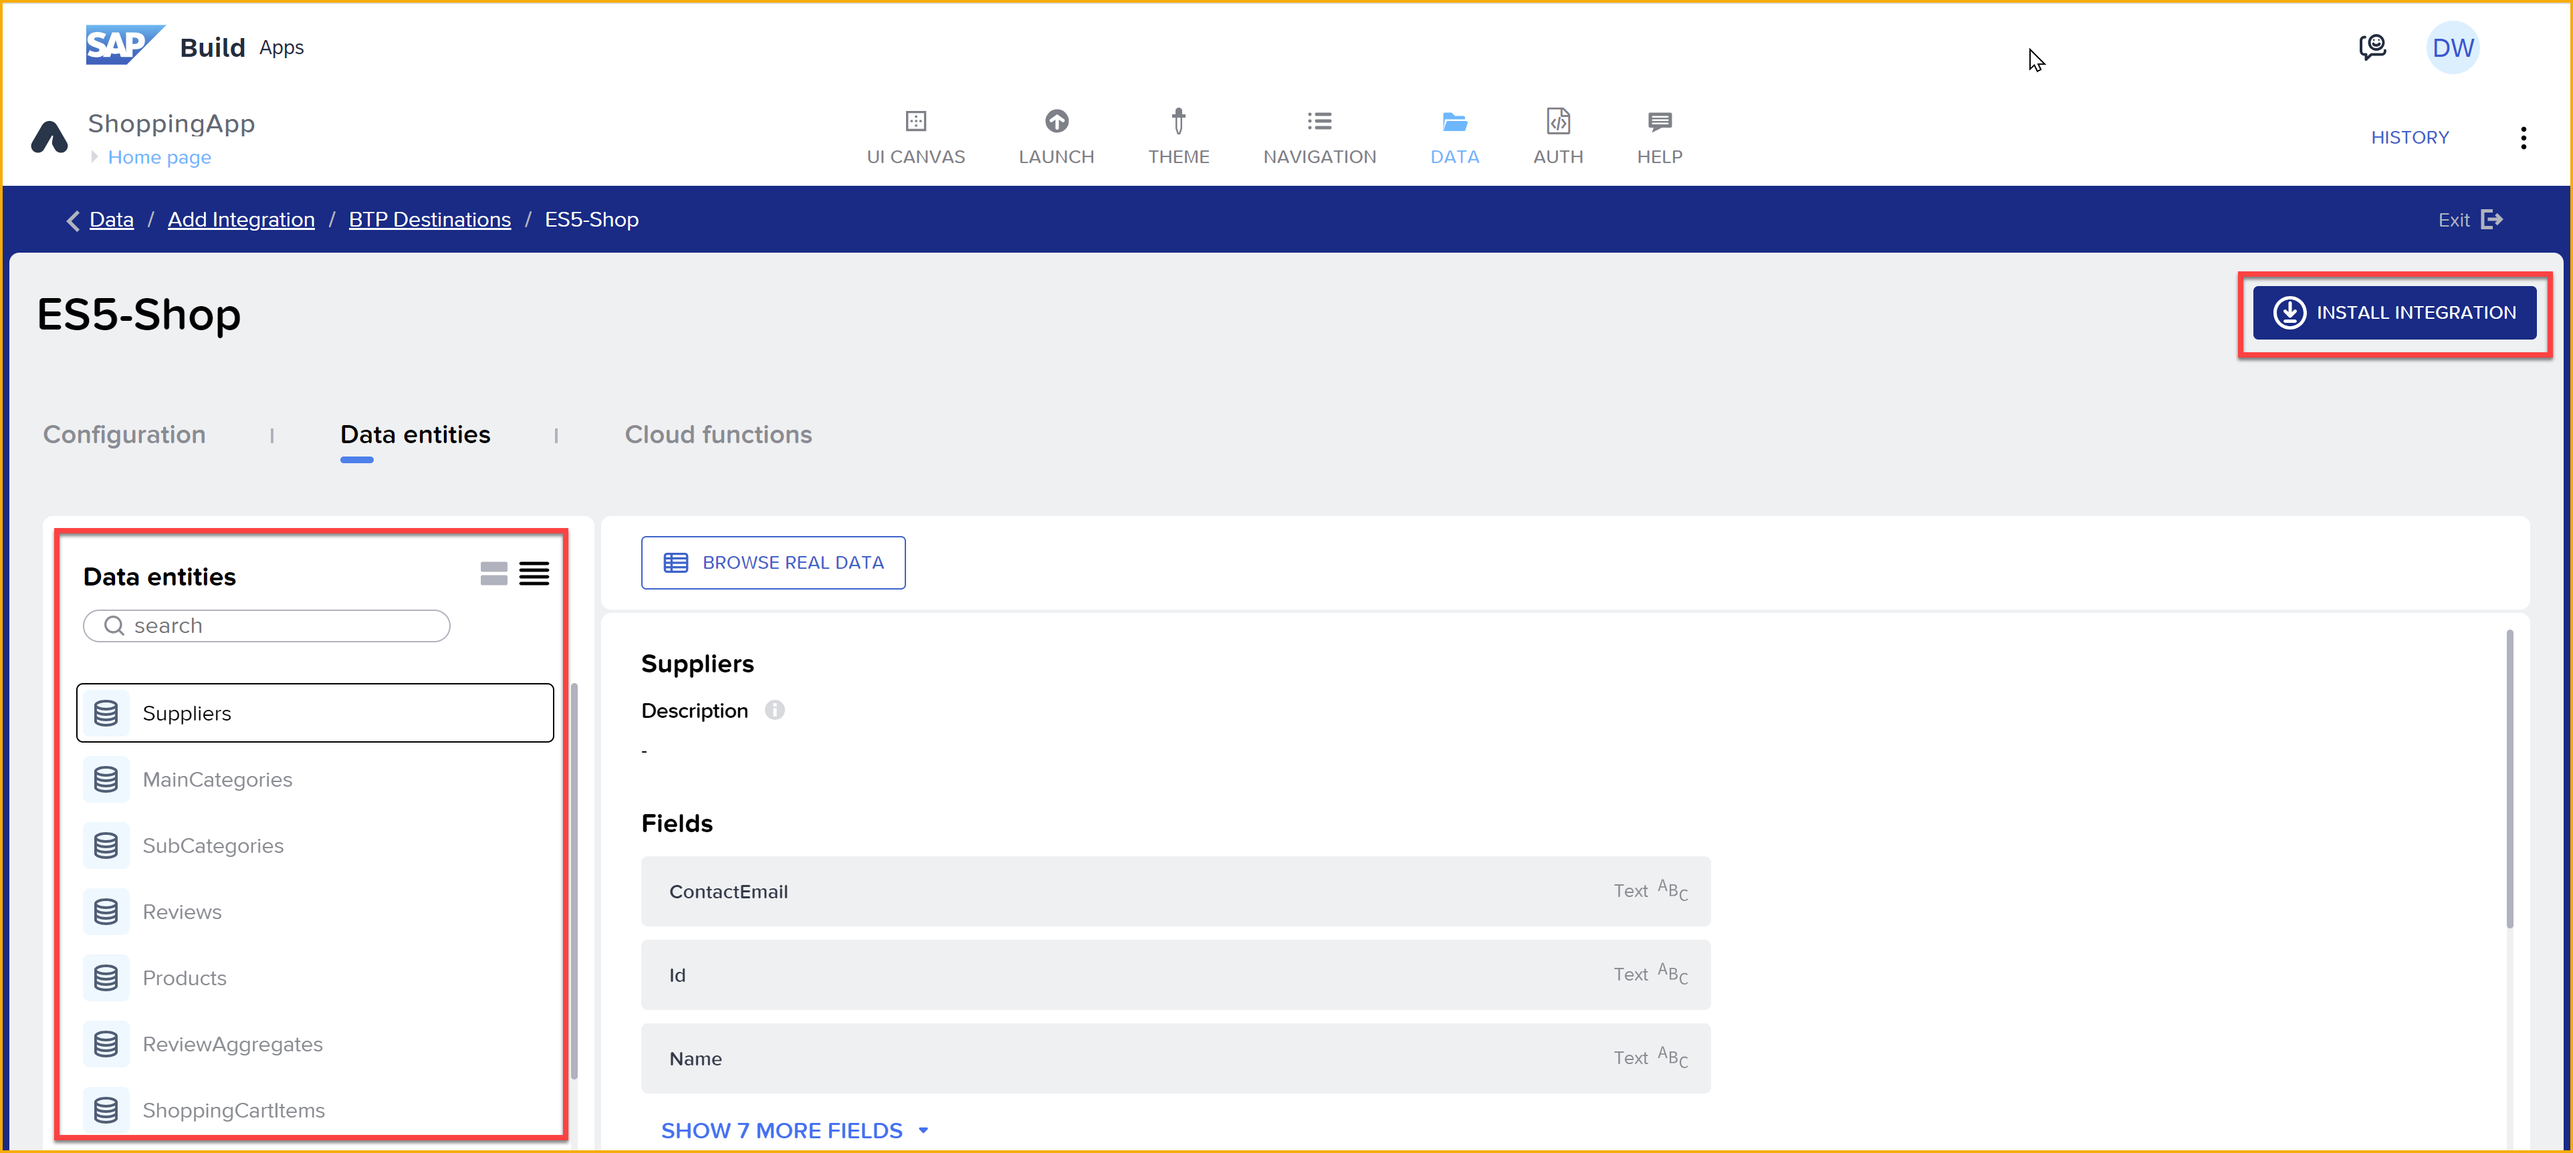
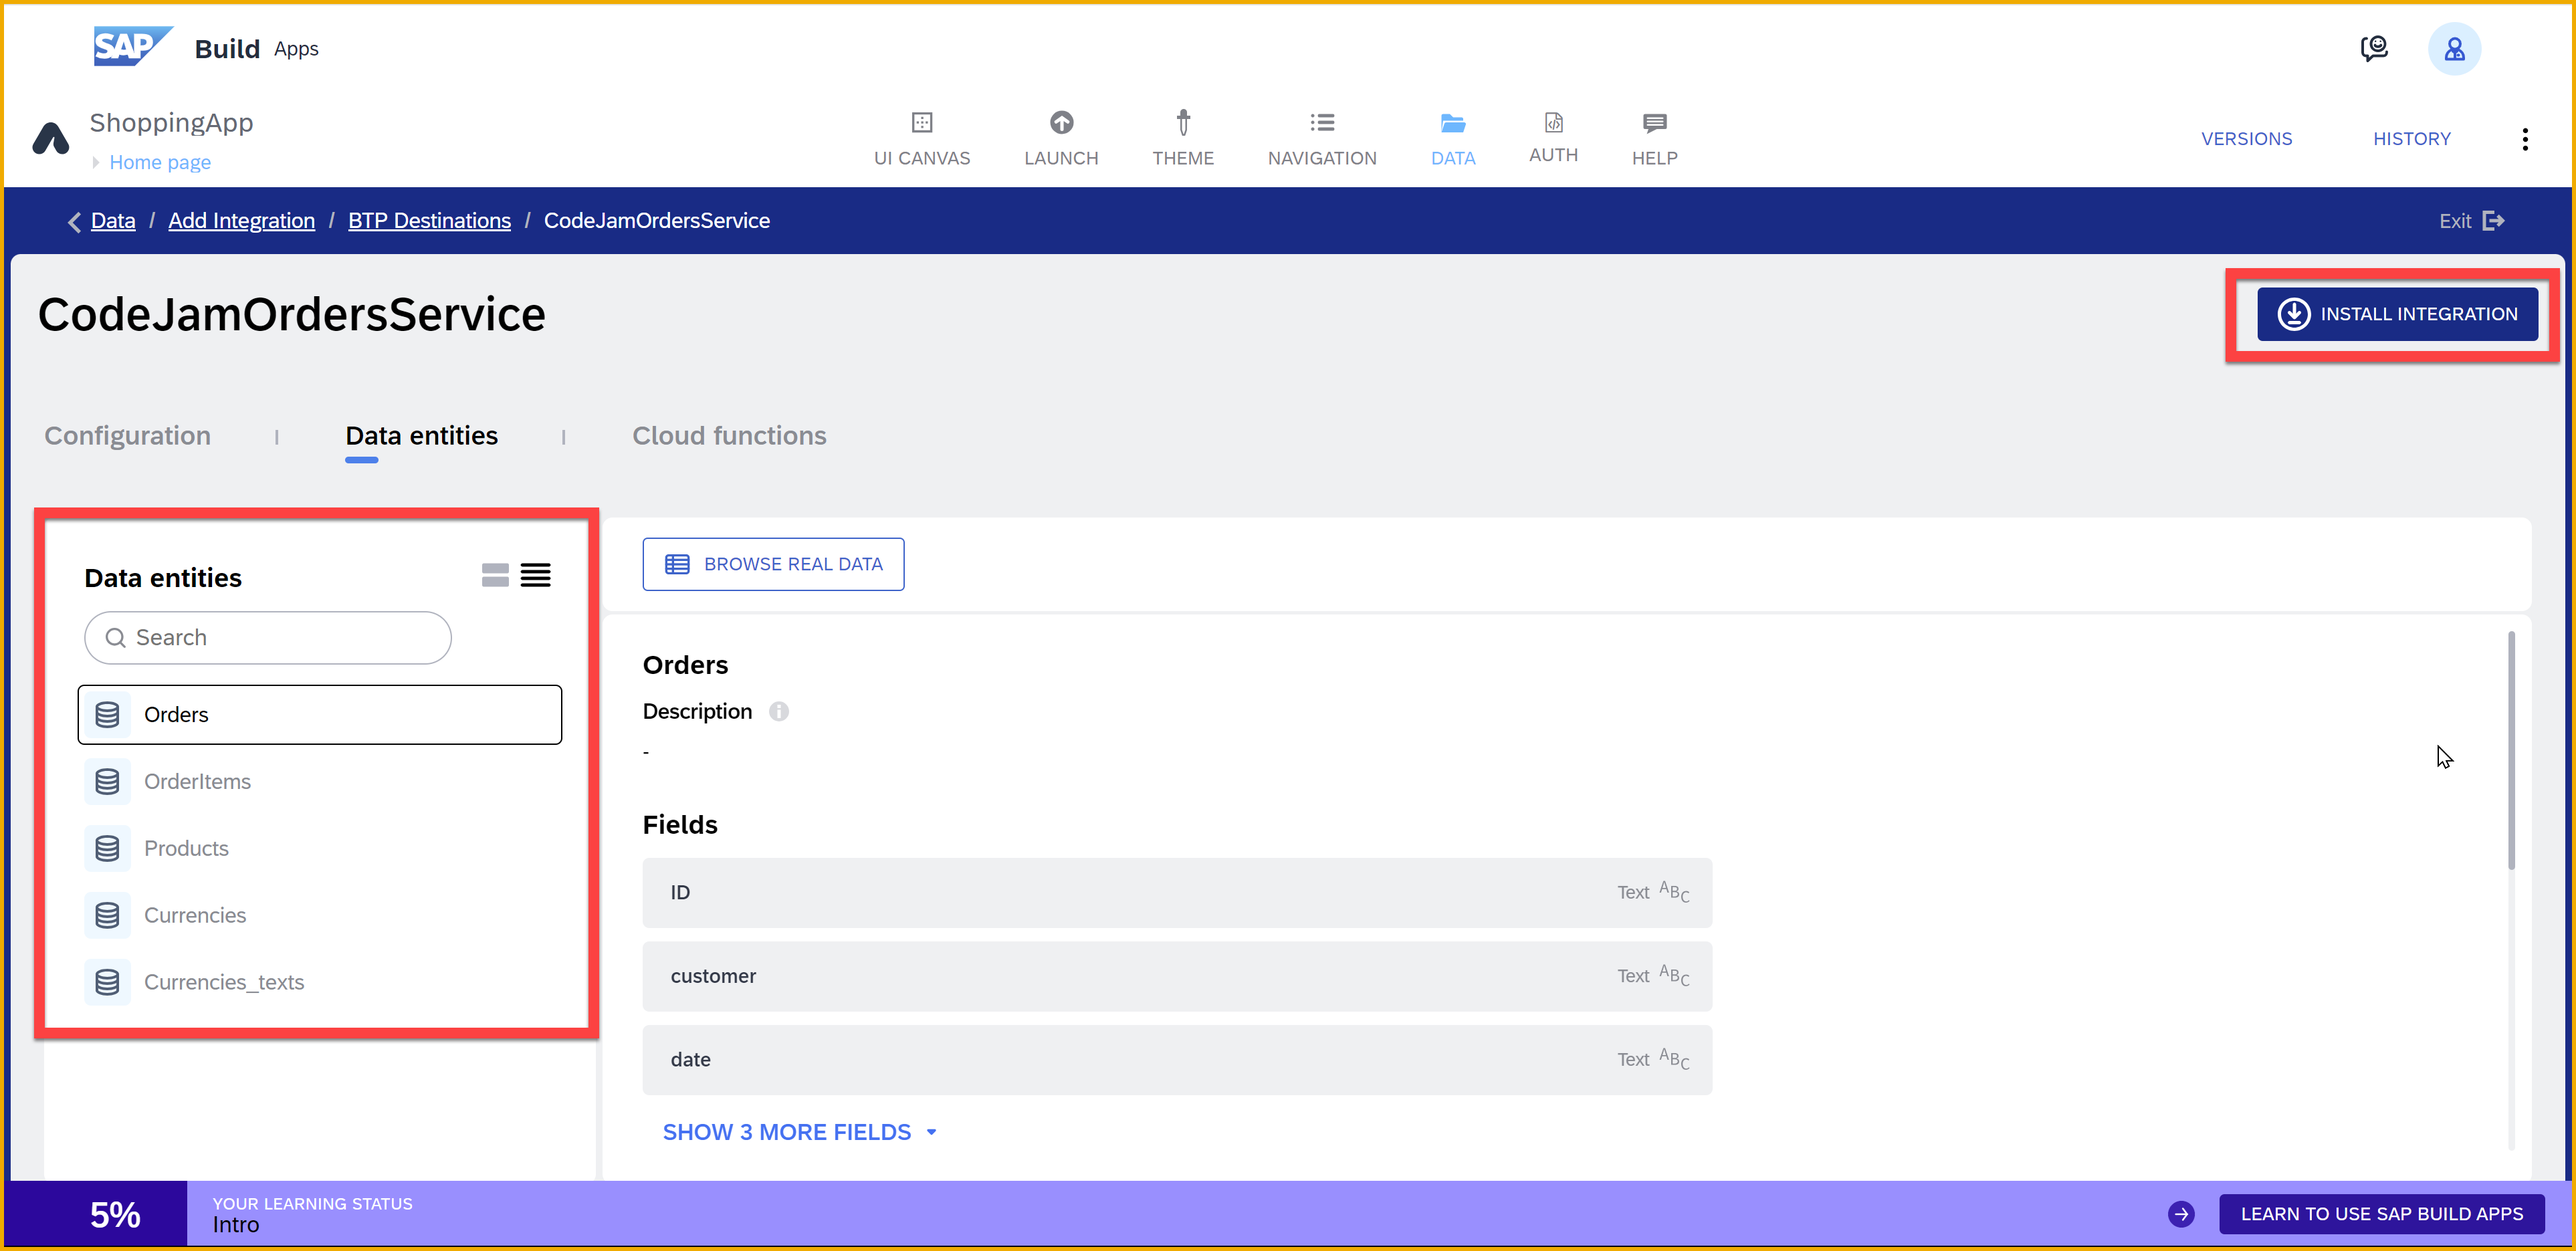
Remove ES5 from tutorials 0 and 1

diff --git a/tutorials/codejam-01-homepage/codejam-01-homepage.md b/tutorials/codejam-01-homepage/codejam-01-homepage.md
@@ -9,7 +9,7 @@ primary_tag: software-product>sap-build
 ---
   
 # 1 - Create the Product List Page
-<!-- description --> Import a skeleton project for the SAP Build CodeJam, and create a simple product list page based on ES5 data.
+<!-- description --> Import a skeleton project for the SAP Build CodeJam, and create a simple product list page based on data in our CAP service.
 
 
 ## Prerequisites
@@ -30,7 +30,7 @@ In this exercise, you will be importing an already created skeleton app to your 
 
 For this page, the product list page, you will design the entire UI, including styles and layout. For all pages, you will create the data connections, variables, logic, and navigation.
 
-For this product list page, you will connect to the ES5 service to get names, descriptions and images of products. At the end of this exercise, your homepage (product list page) will look something like this.
+For this product list page, you will connect to our CAP service to get names, descriptions and images of products. At the end of this exercise, your homepage (product list page) will look something like this.
 
 ![Home page](images/restyle-6-preview.png)
 
@@ -133,9 +133,9 @@ SAP BTP destinations are connections to backend services – each specifies the 
 
 
 ### Enable a data entity
-Since you have already performed the steps in the prerequisites tutorial, you should have a destination to the ES5 shopping API that points to a service to return a list of products.
+Since you have already performed the steps in the prerequisites tutorial, you should have a destination to our CAP service, including to the **Products** entity that returns a list of products.
 
-Now you must create the connection between your app and the ES5 system.
+Now you must create the connection between your app and our CAP service.
 
 1. Open the **Data** tab.
 
@@ -147,9 +147,9 @@ Now you must create the connection between your app and the ES5 system.
     
     ![BTP destinations](images/6a-datatab-integrations.png)
 
-3. Find the **ES5-Shop** destination, and click it.
+3. Find the **CodeJamOrdersService** destination, and click it.
 
-    ![ES5-Shop](images/6b-datatab-integrations.png)
+    ![CodeJamOrdersService](images/6b-datatab-integrations.png)
 
     This will show all the entities available in this service.
 
@@ -164,6 +164,10 @@ Now you must create the connection between your app and the ES5 system.
     You should see the entity as **Enabled**.
 
     ![Enabled](enabled.png)
+
+    You can also click on **Browse Real Data** to see the data inside the service entity.
+
+    ![Browse data](images/6d-real-data.png)
 
 6. Click **Save** (upper right).
 
@@ -330,7 +334,7 @@ To do this, you create bindings for your UI components – in this case, the lis
     |-------|---------|
     | Title label | **Data item in repeat > current > Name** |
     | Description text | **Data item in repeat > current > Description** |
-    | Image source (see note below) | Formula > `'https://sapes5.sapdevcenter.com' + repeated.current.ImageUrl` |
+    | Image source (see note below) | Formula > `'https://ui5.sap.com/test-resources/sap/m/demokit/cart/webapp/localService/mockdata/images/' + repeated.current.ImageUrl` |
 
     >To set a formula, click on the default formula. 
     >

diff --git a/tutorials/codejam-0-prerequisites/codejam-0-prerequisites.md b/tutorials/codejam-0-prerequisites/codejam-0-prerequisites.md
@@ -126,7 +126,7 @@ If you prefer, here are the step-by-step instructions.
 
     Click the blue button **Click here to activate your account**.
 
-5. Enter a password (twice), and click 
+5. Enter a password (twice), and click **Continue**.
 
     ![Continue](after3.png)
 
@@ -201,9 +201,11 @@ If you prefer, here are the step-by-step instructions.
 
     ![Processing](spa6.png)
 
-    >**IMPORTANT:** It may take as long as a half-hour to complete the subscription to SAP Build Process Automation. You do not have to wait and can skip the rest of step 3 for now (and move to Step 4) as you won't be using SAP Build Process Automation until much later in [tutorial 5] (https://developers.sap.com/tutorials/codejam-05-spa-empty-process.html) in this tutorial mission.
+    >**IMPORTANT:** It may take as long as a half-hour to complete the subscription to SAP Build Process Automation. If you are doing these prerequisites before the CodeJam, just continue.
     
-    >**But when the subscription is complete,** and you reach the point that you must use SAP Build Process Automation, remember to return to this step and finish it (we will remind you). 
+    >But if you are doing these at the event (which we do NOT recommend), you do not have to wait and can skip the rest of step 3 for now (and move to Step 4) as you won't be using SAP Build Process Automation until much later in [tutorial 5](https://developers.sap.com/tutorials/codejam-05-spa-empty-process.html) in this tutorial mission.
+    
+    >**But when the subscription is complete,** and you reach the point that you must use SAP Build Process Automation, remember to return to this step and finish it (we will remind you in Tutorial 5). 
 
 5. When the subscription for SAP Build Process Automation is complete, the status will turn green to **Subscribed**.
 
@@ -244,7 +246,7 @@ In order to work with the CAP service, you need to create a destination in the S
 
 1. Download the destination definition.
    
-    Click [`CodeJamOrdersService`](https://github.com/sap-tutorials/sap-build-apps/blob/main/tutorials/codejam-03-cart-page/CodeJamOrdersService), and then click the download button.
+    Click [CodeJamOrdersService](https://github.com/sap-tutorials/sap-build-apps/blob/main/tutorials/codejam-03-cart-page/CodeJamOrdersService), and then click the download button.
 
     ![Download](downloadCAP.png)
 
@@ -264,7 +266,9 @@ In order to work with the CAP service, you need to create a destination in the S
 
 4. Test the connectivity to the new destination by clicking **Check Connection**.
    
-   You should receive **200: OK**. 
+    ![Test destination](images/test-dest.png)
+
+    You should receive **200: OK**. 
 
 
 
